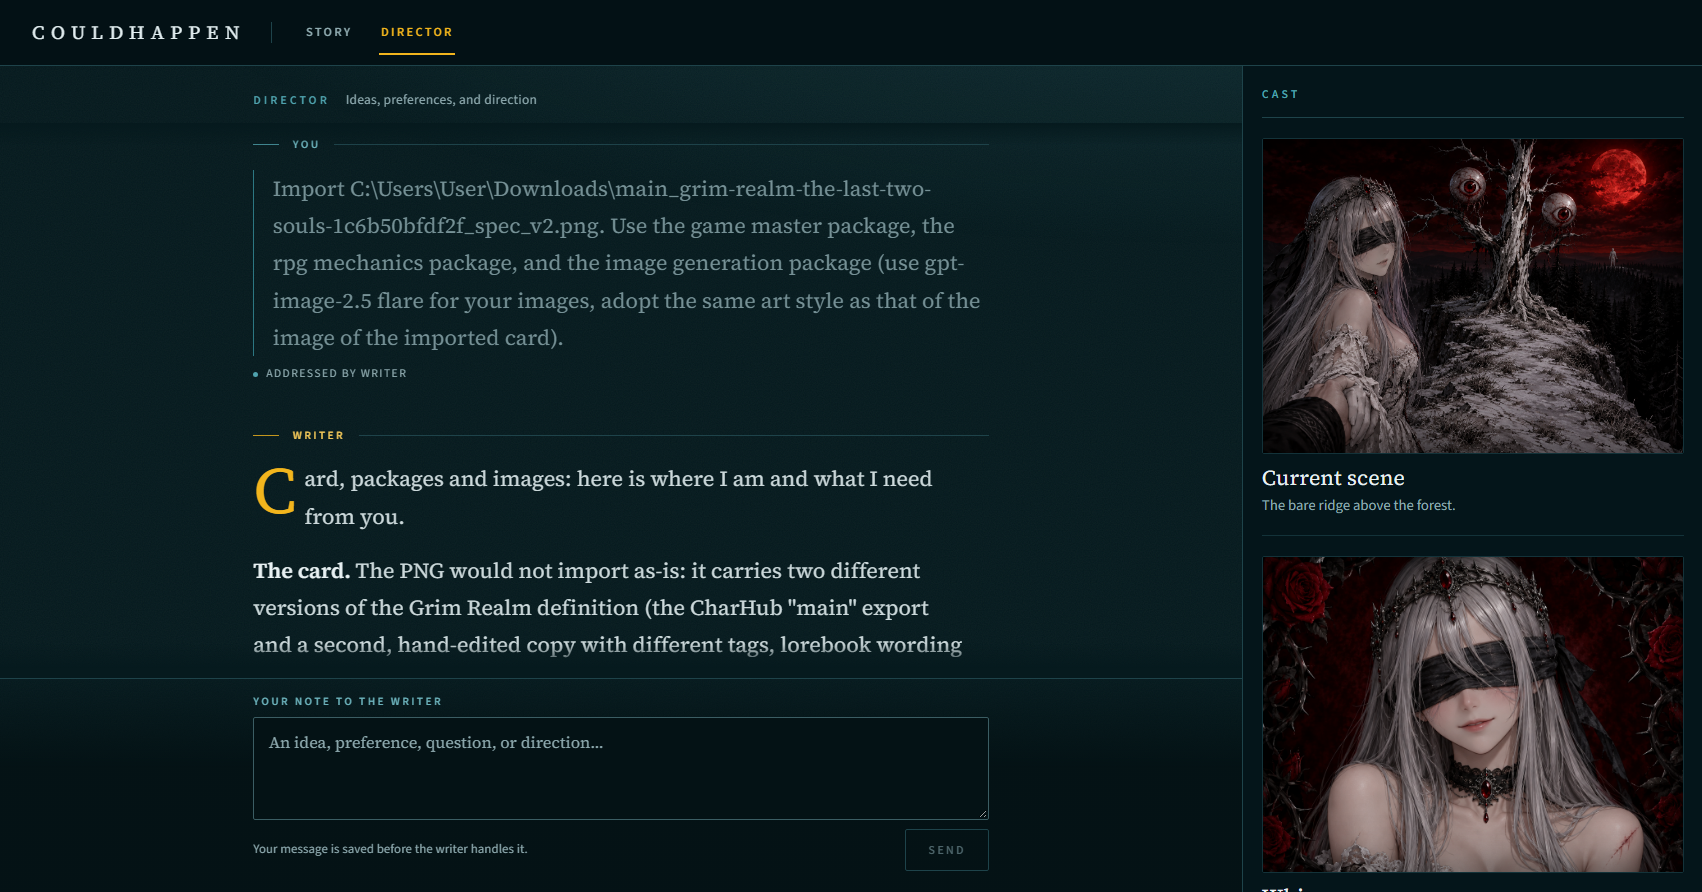
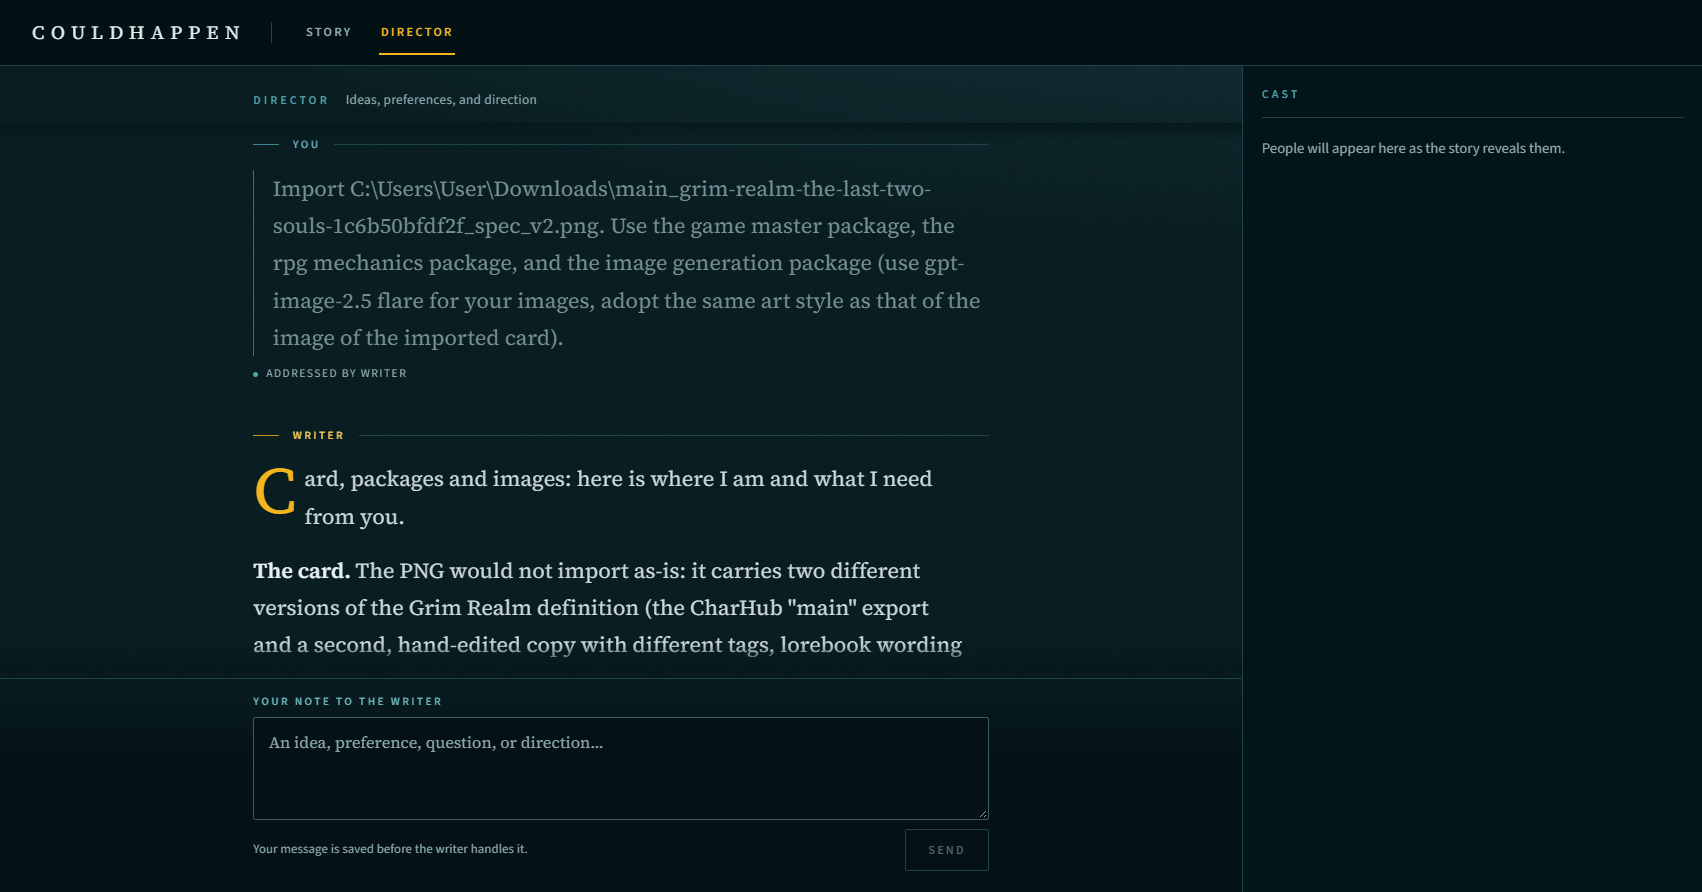
docs: Director screenshot shows an empty cast before any pictures (ISS-6)

Changed region(s): [[0.7162, 0.6054, 0.9965, 1.0], [0.7162, 0.1513, 0.9965, 0.5751]]

diff --git a/docs/plans/public-release.md b/docs/plans/public-release.md
@@ -16,7 +16,7 @@ Run `egm-drift-report` over the [design](../designs/couldhappen.md), [distributi
 
 Retake the screenshots in the README and on GitHub for the restyled reader ([ADR-6](../decisions/ADR-6-dark-petrol-reader.md)).
 
-**Closed 2026-11-11.** `director.png` and `story-empty.png` were retaken at 1702×892 in the current stock reader, from a temporary copy of the public files of the 0.1.10 D&D story workspace (the story the old shots showed). `story-cast.png` was taken from the same files in a throwaway copy of the reader with the scene-images theme and the rpg-mechanics sheet panel applied as those packages describe, using that session's own `sheet.json` (its "Blood moon" theme and Ash's stats); the repository's reader was not changed. `director-export.png` shows a reader a player built, not the stock one, so it was kept.
+**Closed 2026-11-11.** `director.png` and `story-empty.png` were retaken at 1702×892 in the current stock reader, from a temporary copy of the public files of the 0.1.10 D&D story workspace (the story the old shots showed); `director.png` shows the first Director exchange with an empty cast, as it was before any picture was made. `story-cast.png` was taken from the same files in a throwaway copy of the reader with the scene-images theme and the rpg-mechanics sheet panel applied as those packages describe, using that session's own `sheet.json` (its "Blood moon" theme and Ash's stats); the repository's reader was not changed. `director-export.png` shows a reader a player built, not the stock one, so it was kept.
 
 ## ISS-17 — EGM design review
 
